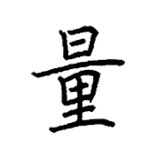
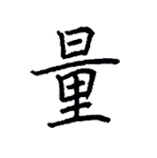
1

Changed region(s): [[0.1783, 0.1519, 0.8153, 0.8608]]

diff --git a/subjects/english/shuahaoti/index.html b/subjects/english/shuahaoti/index.html
@@ -232,7 +232,14 @@ body.night-mode .clear-fav-btn:hover {
 .card-wrapper {
     position: relative;
     width: 100%;
-    margin-top: 24px;
+    margin-top: 19px;
+    will-change: transform;
+    cursor: grab;
+    user-select: none;
+    -webkit-user-select: none;
+}
+.card-wrapper:active {
+    cursor: grabbing;
 }
 
 .question-card {
@@ -1719,22 +1726,272 @@ body.night-mode .mode-toast {
             showToast('已清空所有收藏');
         }
 
-        // 滑动切换
+        // 滑动切换（跟手双卡 + 惯性滚动 + 平滑吸附，鼠标/触摸通用）
         function setupSwipe() {
-            let touchStartX = 0;
-            let touchStartY = 0;
-            questionArea.addEventListener('touchstart', e => {
-                touchStartX = e.changedTouches[0].screenX;
-                touchStartY = e.changedTouches[0].screenY;
-            }, { passive: true });
-            questionArea.addEventListener('touchend', e => {
-                let dx = e.changedTouches[0].screenX - touchStartX;
-                let dy = e.changedTouches[0].screenY - touchStartY;
-                if (Math.abs(dx) > 60 && Math.abs(dx) > Math.abs(dy) * 1.5) {
-                    if (dx < 0) goToNext();
-                    else goToPrev();
+            let startX = 0, startY = 0, startTime = 0;
+            let isDragging = false;
+            let isAnimating = false;
+            let moved = false;
+            let dragStartIdx = 0;
+            let virtualPos = 0;       // 虚拟滚动位置（可小数，单位=卡）
+            let lastFloorIdx = -1;
+            let viewport = null;
+            let cardLoEl = null, cardHiEl = null;
+            let cardH = 500;
+            let animFrameId = null;
+            const CARD_GAP = 20;      // 卡片之间的间距(px)，也等于卡片到屏幕边缘的距离
+
+            function getXY(e) {
+                if (e.touches && e.touches.length) return { x: e.touches[0].screenX, y: e.touches[0].screenY };
+                if (e.changedTouches && e.changedTouches.length) return { x: e.changedTouches[0].screenX, y: e.changedTouches[0].screenY };
+                return { x: e.screenX, y: e.screenY };
+            }
+
+            // 获取步进距离（卡片宽度 + 间距）
+            function getStep() {
+                return (questionArea.offsetWidth || 300) + CARD_GAP;
+            }
+
+            // 构建双卡视口：当前卡 + 下一卡，通过像素偏移实现从屏幕外滑入
+            function buildViewport() {
+                let lo = Math.floor(virtualPos);
+                lo = Math.max(0, Math.min(lo, filteredQuestions.length - 1));
+                let hi = Math.min(lo + 1, filteredQuestions.length - 1);
+                let fraction = virtualPos - lo; // 0~1，当前卡被推走多少
+
+                let step = getStep();
+
+                viewport = document.createElement('div');
+                viewport.style.cssText = `position:relative;overflow:hidden;width:100%;height:${cardH}px;margin-top:19px;`;
+
+                // 低位卡 — 临时设 currentIndex 让序号正确
+                currentIndex = lo;
+                cardLoEl = createQuestionCard(filteredQuestions[lo]);
+                cardLoEl.style.cssText = 'position:absolute;top:0;left:0;width:100%;margin:0;';
+                cardLoEl.style.transform = `translateX(${-fraction * step}px)`;
+                viewport.appendChild(cardLoEl);
+
+                // 高位卡 — 临时设 currentIndex 让序号正确
+                if (hi !== lo) {
+                    currentIndex = hi;
+                    cardHiEl = createQuestionCard(filteredQuestions[hi]);
+                    cardHiEl.style.cssText = 'position:absolute;top:0;left:0;width:100%;margin:0;';
+                    cardHiEl.style.transform = `translateX(${(1 - fraction) * step}px)`;
+                    viewport.appendChild(cardHiEl);
+                } else {
+                    cardHiEl = null;
                 }
-            });
+
+                questionArea.innerHTML = '';
+                questionArea.appendChild(viewport);
+                lastFloorIdx = lo;
+                currentIndex = Math.round(virtualPos);
+            }
+
+            // 更新双卡位置（不重建 DOM，只改 transform）
+            function updatePositions() {
+                let lo = Math.floor(virtualPos);
+                lo = Math.max(0, Math.min(lo, filteredQuestions.length - 1));
+
+                // 跨越了整数边界 → 需要重建视口
+                if (lo !== lastFloorIdx) {
+                    buildViewport();
+                    return;
+                }
+
+                let fraction = virtualPos - lo;
+                let step = getStep();
+                let hi = Math.min(lo + 1, filteredQuestions.length - 1);
+
+                if (cardLoEl) {
+                    cardLoEl.style.transition = 'none';
+                    cardLoEl.style.transform = `translateX(${-fraction * step}px)`;
+                }
+                if (cardHiEl && hi !== lo) {
+                    cardHiEl.style.transition = 'none';
+                    cardHiEl.style.transform = `translateX(${(1 - fraction) * step}px)`;
+                }
+
+                currentIndex = Math.round(virtualPos);
+            }
+
+            function onStart(e) {
+                // 如果正在惯性动画中，打断并从当前位置开始
+                if (isAnimating) {
+                    isAnimating = false;
+                    if (animFrameId) cancelAnimationFrame(animFrameId);
+                    // 保留当前 virtualPos，不取整
+                }
+                if (e.target.tagName === 'INPUT' || e.target.tagName === 'TEXTAREA' || e.target.tagName === 'BUTTON') return;
+                // 卡片内容区（可竖向滚动）内不触发水平滑动
+                if (e.target.closest('.question-card-body')) return;
+                if (filteredQuestions.length <= 1) return;
+
+                let p = getXY(e);
+                startX = p.x; startY = p.y;
+                startTime = Date.now();
+                isDragging = true;
+                moved = false;
+                dragStartIdx = virtualPos;
+                lastFloorIdx = -1;
+
+                // 测量当前卡片高度
+                let existing = questionArea.querySelector('.card-wrapper');
+                if (existing) cardH = existing.offsetHeight;
+            }
+
+            function onMove(e) {
+                if (!isDragging) return;
+                let p = getXY(e);
+                let dx = p.x - startX;
+                let dy = p.y - startY;
+
+                if (!moved) {
+                    if (Math.abs(dx) < 8 && Math.abs(dy) < 8) return;
+                    // 竖滑为主 → 放弃拖拽
+                    if (Math.abs(dy) > Math.abs(dx) * 2) {
+                        isDragging = false;
+                        return;
+                    }
+                    moved = true;
+                    buildViewport();
+                }
+
+                e.preventDefault();
+
+                // 像素位移 → 卡片单位（用 step 而非 cardW，因为卡片从屏幕外滑入）
+                let step = getStep();
+                virtualPos = dragStartIdx - dx / step;
+                virtualPos = Math.max(0, Math.min(virtualPos, filteredQuestions.length - 1));
+                updatePositions();
+            }
+
+            function onEnd(e) {
+                if (!isDragging) return;
+                isDragging = false;
+                if (!moved) return;
+                moved = false;
+
+                let p = getXY(e);
+                let dx = p.x - startX;
+                let dt = Date.now() - startTime || 16;
+                let velocity = dx / dt; // px/ms，正值=向右=上一题
+
+                if (Math.abs(velocity) > 0.15 && filteredQuestions.length > 1) {
+                    applyMomentum(velocity);
+                } else {
+                    snapToCard();
+                }
+            }
+
+            // 惯性滚动：松手后卡片继续翻，逐渐减速
+            function applyMomentum(startVelocity) {
+                isAnimating = true;
+                let step = getStep();
+                let velCards = -startVelocity / step * 1000; // 卡/秒，正值=向下一题
+                let decel = 4; // 减速度 卡/秒²
+                let lastTime = performance.now();
+
+                function animate(now) {
+                    if (!isAnimating) return;
+                    let dt = (now - lastTime) / 1000;
+                    lastTime = now;
+                    if (dt > 0.05) dt = 0.05;
+
+                    // 减速
+                    if (velCards > 0) velCards = Math.max(0, velCards - decel * dt);
+                    else velCards = Math.min(0, velCards + decel * dt);
+
+                    if (Math.abs(velCards) < 0.05) {
+                        isAnimating = false;
+                        snapToCard();
+                        return;
+                    }
+
+                    virtualPos += velCards * dt;
+
+                    // 边界
+                    if (virtualPos <= 0) { virtualPos = 0; isAnimating = false; snapToCard(); return; }
+                    if (virtualPos >= filteredQuestions.length - 1) { virtualPos = filteredQuestions.length - 1; isAnimating = false; snapToCard(); return; }
+
+                    updatePositions();
+                    animFrameId = requestAnimationFrame(animate);
+                }
+
+                animFrameId = requestAnimationFrame(animate);
+            }
+
+            // 平滑吸附到最近的整张卡片（不重建DOM，避免跳帧）
+            function snapToCard() {
+                let targetPos = Math.max(0, Math.min(Math.round(virtualPos), filteredQuestions.length - 1));
+                let diff = targetPos - virtualPos;
+
+                // 已经在整数位置 → 直接定稿
+                if (Math.abs(diff) < 0.003) {
+                    finalizeSnap(targetPos);
+                    return;
+                }
+
+                // 用动画平滑过渡到目标位置
+                isAnimating = true;
+                let startPos = virtualPos;
+                let snapStart = performance.now();
+                let duration = Math.max(120, Math.min(280, Math.abs(diff) * 250));
+
+                function animateSnap(now) {
+                    let elapsed = now - snapStart;
+                    let t = Math.min(1, elapsed / duration);
+                    // ease-out cubic
+                    t = 1 - Math.pow(1 - t, 3);
+
+                    virtualPos = startPos + diff * t;
+                    updatePositions();
+
+                    if (t < 1) {
+                        animFrameId = requestAnimationFrame(animateSnap);
+                    } else {
+                        isAnimating = false;
+                        finalizeSnap(targetPos);
+                    }
+                }
+
+                animFrameId = requestAnimationFrame(animateSnap);
+            }
+
+            // 吸附定稿：从视口中提取可见卡片，恢复为正常布局（不重建DOM）
+            function finalizeSnap(targetPos) {
+                currentIndex = targetPos;
+                virtualPos = targetPos;
+
+                if (viewport && viewport.parentNode === questionArea) {
+                    // 判断哪张卡可见（targetPos == lastFloorIdx 用低位卡，否则用高位卡）
+                    let visibleCard = (targetPos === lastFloorIdx) ? cardLoEl : cardHiEl;
+                    if (visibleCard) {
+                        // 清除拖拽时加的定位样式，恢复为 CSS class 定义的正常布局
+                        visibleCard.style.cssText = '';
+                        questionArea.innerHTML = '';
+                        questionArea.appendChild(visibleCard);
+                    } else {
+                        renderCurrent();
+                    }
+                } else {
+                    renderCurrent();
+                }
+
+                viewport = null;
+                cardLoEl = null;
+                cardHiEl = null;
+            }
+
+            // 触摸事件
+            questionArea.addEventListener('touchstart', e => onStart(e), { passive: true });
+            questionArea.addEventListener('touchmove', e => onMove(e), { passive: false });
+            questionArea.addEventListener('touchend', e => onEnd(e));
+
+            // 鼠标事件
+            questionArea.addEventListener('mousedown', e => onStart(e));
+            document.addEventListener('mousemove', e => onMove(e));
+            document.addEventListener('mouseup', e => onEnd(e));
         }
 
         // ---------- 初始化 ----------